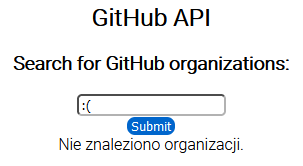
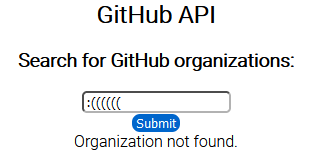
polish to english, screen edit

diff --git a/script.js b/script.js
@@ -46,7 +46,7 @@ form.addEventListener("submit", (e) => {
     .catch((err) => {
       console.log(err)
       var span = $('<span>', {
-        "text": "Nie znaleziono organizacji.",
+        "text": "Organization not found.",
         "id": "error-span"
       })
       span.appendTo(".result")
